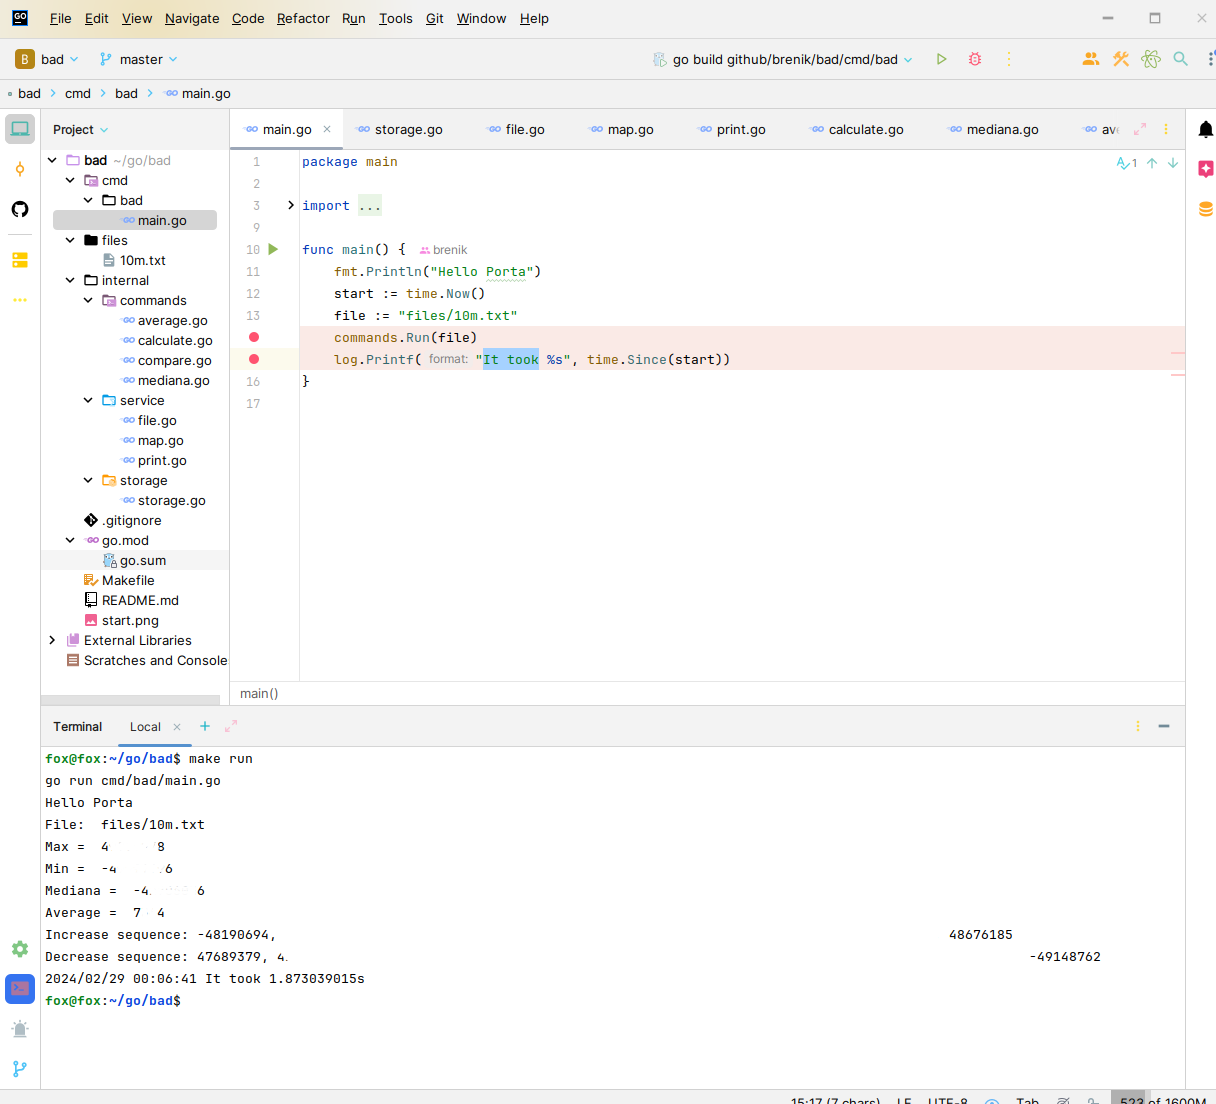
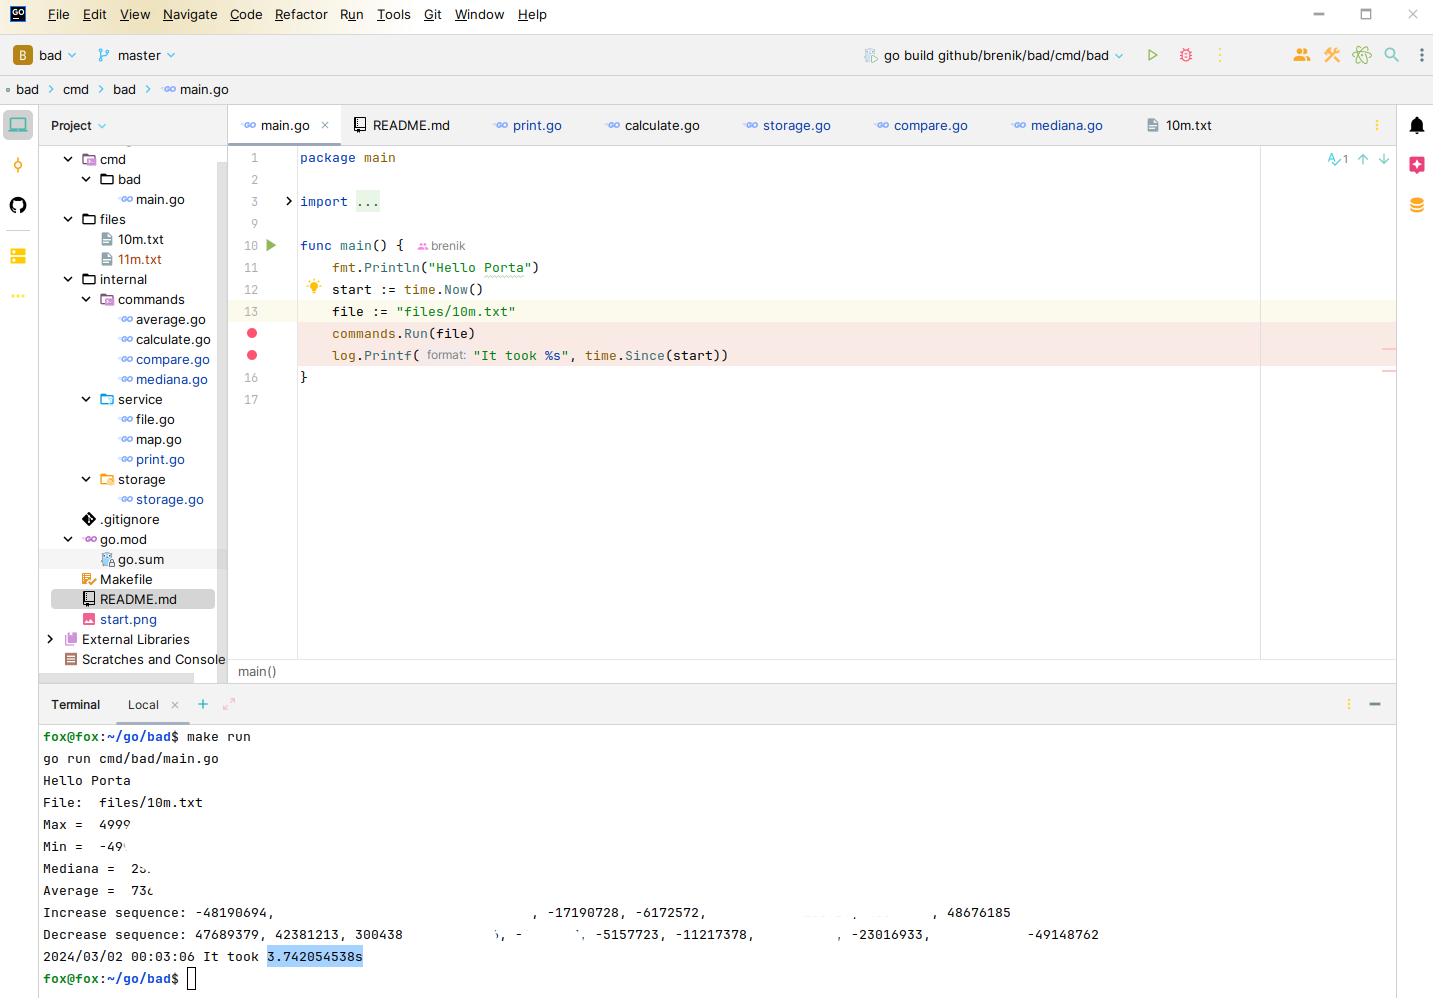
change map to array

diff --git a/internal/commands/compare.go b/internal/commands/compare.go
@@ -2,15 +2,16 @@ package commands
 
 import (
 	"fmt"
-	"github/brenik/bad/internal/service"
 	"github/brenik/bad/internal/storage"
-	"golang.org/x/exp/maps"
 	"strconv"
 )
 
 func Compare() {
-	var incT = make(map[int]int)
-	var dicT = make(map[int]int)
+
+	var incaT []int
+	var dicaT []int
+	storage.Count = len(storage.Lines)
+	storage.IntLines = make([]int, storage.Count)
 
 	last, err := strconv.Atoi(storage.Lines[0])
 	if err != nil {
@@ -21,6 +22,7 @@ func Compare() {
 		if err != nil {
 			fmt.Printf("%d of type %T", n, n)
 		}
+		storage.IntLines[i] = n
 		if n > storage.Max {
 			storage.Max = n
 		}
@@ -30,38 +32,39 @@ func Compare() {
 		storage.Sum += n
 
 		if n > last {
-			incT[i] = n
+			incaT = append(incaT, n)
 		} else {
-			if len(incT) > len(storage.Inc) {
-				maps.Clear(storage.Inc)
-				storage.Inc = service.ShallowCopyMap(incT).(map[int]int)
+			if len(incaT) > len(storage.Inca) {
+				storage.Inca = nil
+				storage.Inca = incaT
 			}
-			maps.Clear(incT)
-			incT[i] = n
+			incaT = nil
+			incaT = append(incaT, n)
 		}
 
 		if n < last {
-			dicT[i] = n
+			dicaT = append(dicaT, n)
 		} else {
-			if len(dicT) > len(storage.Dic) {
-				maps.Clear(storage.Dic)
-				storage.Dic = service.ShallowCopyMap(dicT).(map[int]int)
+			if len(dicaT) > len(storage.Dica) {
+				storage.Dica = nil
+				storage.Dica = dicaT
 			}
-			maps.Clear(dicT)
-			dicT[i] = n
+			dicaT = nil
+			dicaT = append(dicaT, n)
 		}
 
 		last = n
 	}
-	if len(incT) > len(storage.Inc) {
-		maps.Clear(storage.Inc)
-		storage.Inc = service.ShallowCopyMap(incT).(map[int]int)
+
+	if len(incaT) > len(storage.Inca) {
+		storage.Inca = nil
+		storage.Inca = incaT
+		incaT = nil
 	}
-	maps.Clear(incT)
-	if len(dicT) > len(storage.Dic) {
-		maps.Clear(storage.Dic)
-		storage.Dic = service.ShallowCopyMap(dicT).(map[int]int)
+	if len(dicaT) > len(storage.Dica) {
+		storage.Dica = nil
+		storage.Dica = dicaT
+		dicaT = nil
 	}
-	maps.Clear(dicT)
 
 }

diff --git a/internal/commands/mediana.go b/internal/commands/mediana.go
@@ -1,30 +1,22 @@
 package commands
 
 import (
-	"fmt"
 	"github/brenik/bad/internal/storage"
-	"strconv"
+	"sort"
 )
 
 func CalcMediana() {
-	count := len(storage.Lines)
-	ind := (count / 2)
+	sort.Ints(storage.IntLines)
 
-	if count%2 == 0 {
-		m1, err := strconv.Atoi(storage.Lines[ind-1])
-		if err != nil {
-			fmt.Printf("%d of type %T", m1, m1)
-		}
-		m2, err := strconv.Atoi(storage.Lines[ind])
-		if err != nil {
-			fmt.Printf("%d of type %T", m1, m1)
-		}
+	ind := (storage.Count / 2)
+
+	if storage.Count%2 == 0 {
+		m1 := storage.IntLines[ind-1]
+
+		m2 := storage.IntLines[ind]
+
 		storage.Med = (m1 + m2) / 2
 	} else {
-		m, err := strconv.Atoi(storage.Lines[ind])
-		if err != nil {
-			fmt.Printf("%d of type %T", m, m)
-		}
-		storage.Med = m
+		storage.Med = storage.IntLines[ind]
 	}
 }

diff --git a/internal/service/print.go b/internal/service/print.go
@@ -11,9 +11,9 @@ func PrintResult() {
 	fmt.Println("Min = ", storage.Min)
 	fmt.Println("Mediana = ", storage.Med)
 	fmt.Println("Average = ", storage.Avg)
-	printMap("Increase sequence: ", storage.Inc)
+	printArray("Increase sequence: ", storage.Inca)
 	fmt.Println("")
-	printMap("Decrease sequence: ", storage.Dic)
+	printArray("Decrease sequence: ", storage.Dica)
 	fmt.Println("")
 }
 
@@ -34,6 +34,18 @@ func printMap(label string, m map[int]int) {
 			fmt.Printf(", %d", m[k])
 		}
 		i++
+	}
+
+}
+
+func printArray(label string, m []int) {
+	fmt.Printf(label)
+	for i, k := range m {
+		if i == 0 {
+			fmt.Printf("%d", k)
+		} else {
+			fmt.Printf(", %d", k)
+		}
 	}
 
 }

diff --git a/internal/storage/storage.go b/internal/storage/storage.go
@@ -1,17 +1,14 @@
 package storage
 
-import "fmt"
-
+var Count = 0
 var Min = 0
 var Max = 0
 var Sum = 0
 var Med = 0
 var Avg = 0
-var Inc = make(map[int]int)
-var Dic = make(map[int]int)
+
+var Inca []int
+var Dica []int
 
 var Lines []string
-
-func Print(label string) {
-	fmt.Println(label)
-}
+var IntLines []int

diff --git a/README.md b/README.md
@@ -2,7 +2,7 @@
 Please execute cli command "make run" in root folder.
 Golang must be installed.
 
-Searching all values take near 2s.
+Searching all values take near 4s.
 
 
 ![plot](./start.png)
